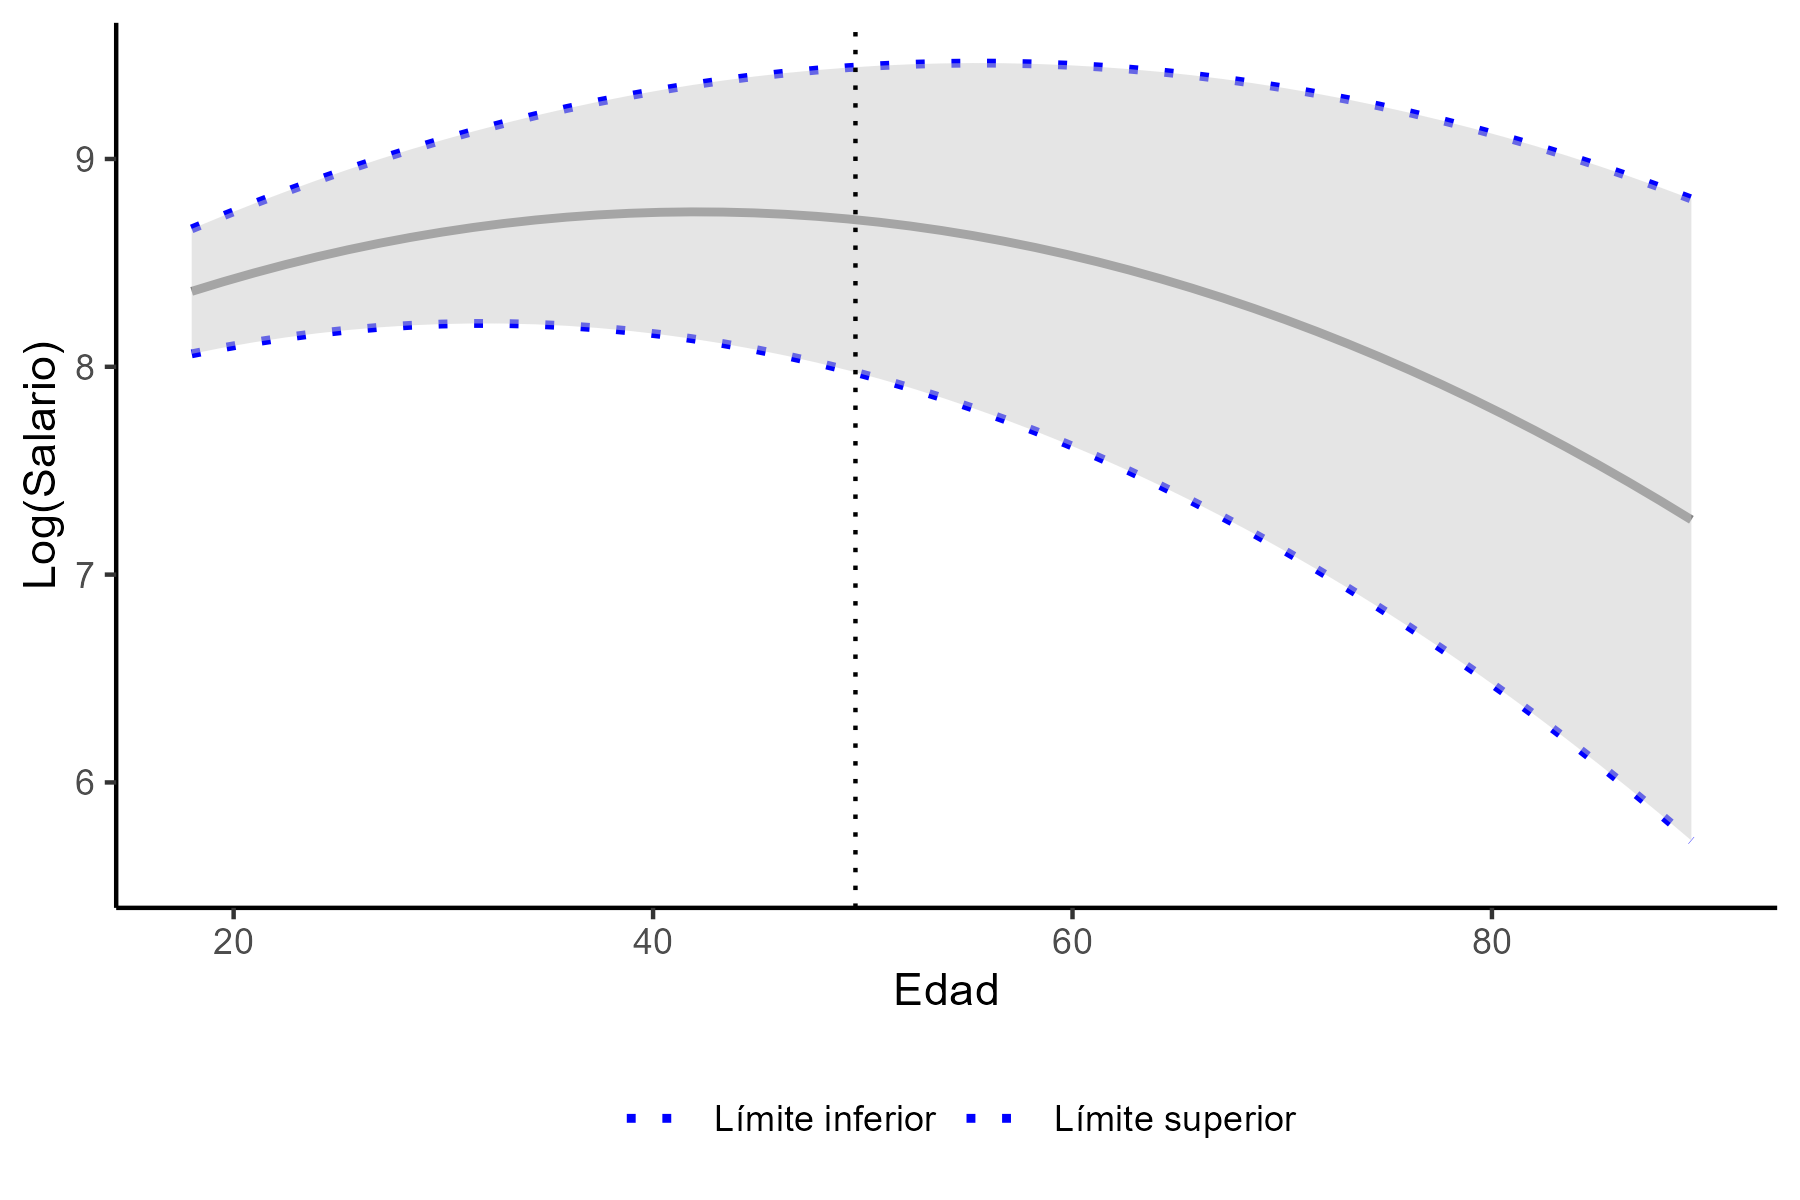
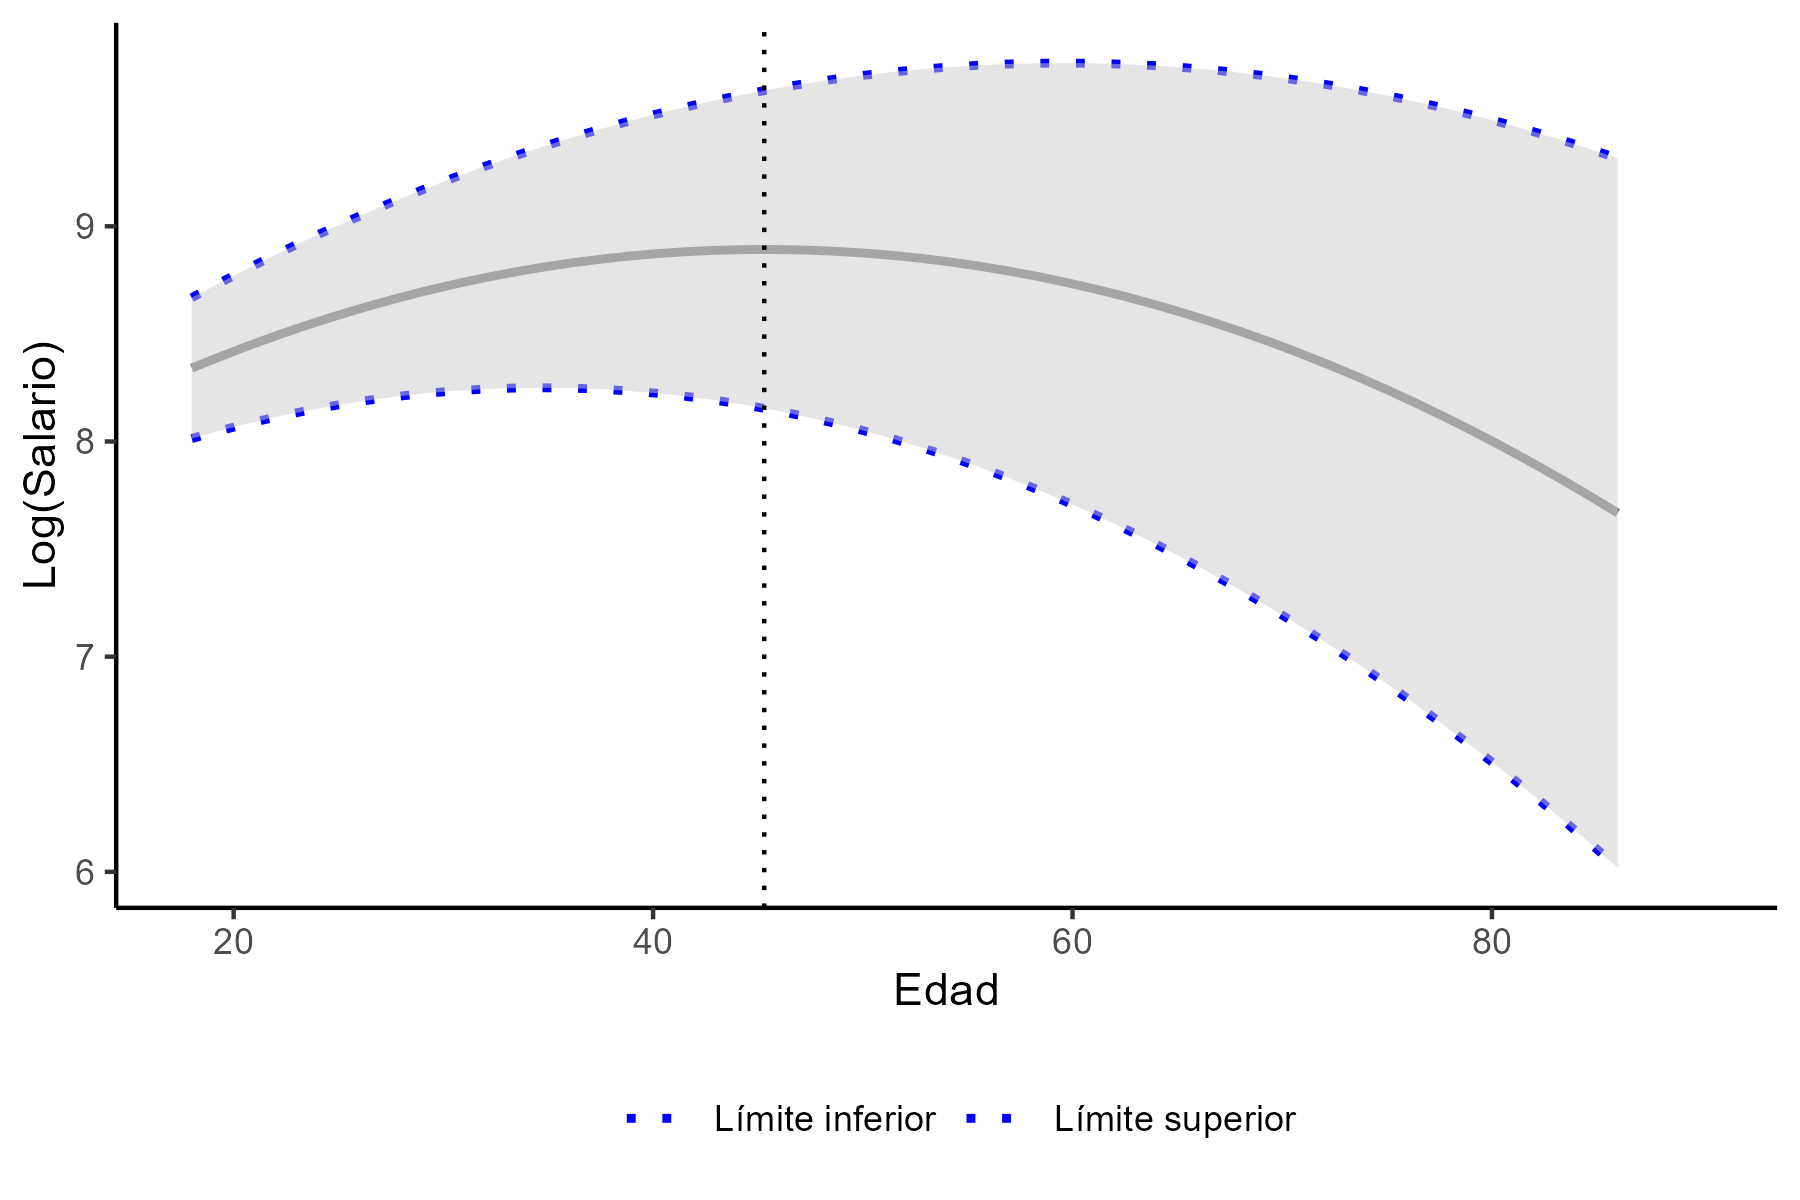
Actualización - perfil salario - edad

diff --git a/views/fit.tex b/views/fit.tex
@@ -1,8 +1,8 @@
 
 % Table created by stargazer v.5.2.3 by Marek Hlavac, Social Policy Institute. E-mail: marek.hlavac at gmail.com
-% Date and time: vie., mar. 01, 2024 - 12:47:40 a. m.
+% Date and time: dom., mar. 03, 2024 - 9:54:46 p. m.
 % Requires LaTeX packages: dcolumn 
-\begin{table}[H] \centering 
+\begin{table}[!htbp] \centering 
   \caption{Resultados de la regresion} 
   \label{} 
 \begin{tabular}{@{\extracolsep{5pt}}lD{.}{.}{-3} D{.}{.}{-3} } 
@@ -13,16 +13,16 @@
  & \multicolumn{1}{c}{Con controles} & \multicolumn{1}{c}{Sin controles} \\ 
 \\[-1.8ex] & \multicolumn{1}{c}{(1)} & \multicolumn{1}{c}{(2)}\\ 
 \hline \\[-1.8ex] 
- Edad & 0.055^{***} & 0.064^{***} \\ 
-  & (0.003) & (0.002) \\ 
+ Edad & 0.067^{***} & 0.147^{***} \\ 
+  & (0.004) & (0.003) \\ 
   & & \\ 
- Edad al cuadrado & -0.001^{***} & -0.001^{***} \\ 
+ Edad al cuadrado & -0.001^{***} & -0.0004^{***} \\ 
   & (0.00004) & (0.00003) \\ 
   & & \\ 
 \hline \\[-1.8ex] 
-Observaciones & \multicolumn{1}{c}{14,763} & \multicolumn{1}{c}{14,763} \\ 
-R$^{2}$ & \multicolumn{1}{c}{0.023} & \multicolumn{1}{c}{0.357} \\ 
-R ajustado$^{2}$ & \multicolumn{1}{c}{0.023} & \multicolumn{1}{c}{0.357} \\ 
+Observaciones & \multicolumn{1}{c}{9,891} & \multicolumn{1}{c}{9,891} \\ 
+R$^{2}$ & \multicolumn{1}{c}{0.044} & \multicolumn{1}{c}{0.476} \\ 
+Adjusted R$^{2}$ & \multicolumn{1}{c}{0.044} & \multicolumn{1}{c}{0.475} \\ 
 \hline 
 \hline \\[-1.8ex] 
 \textit{Note:}  & \multicolumn{2}{r}{$^{*}$p$<$0.1; $^{**}$p$<$0.05; $^{***}$p$<$0.01} \\ 
